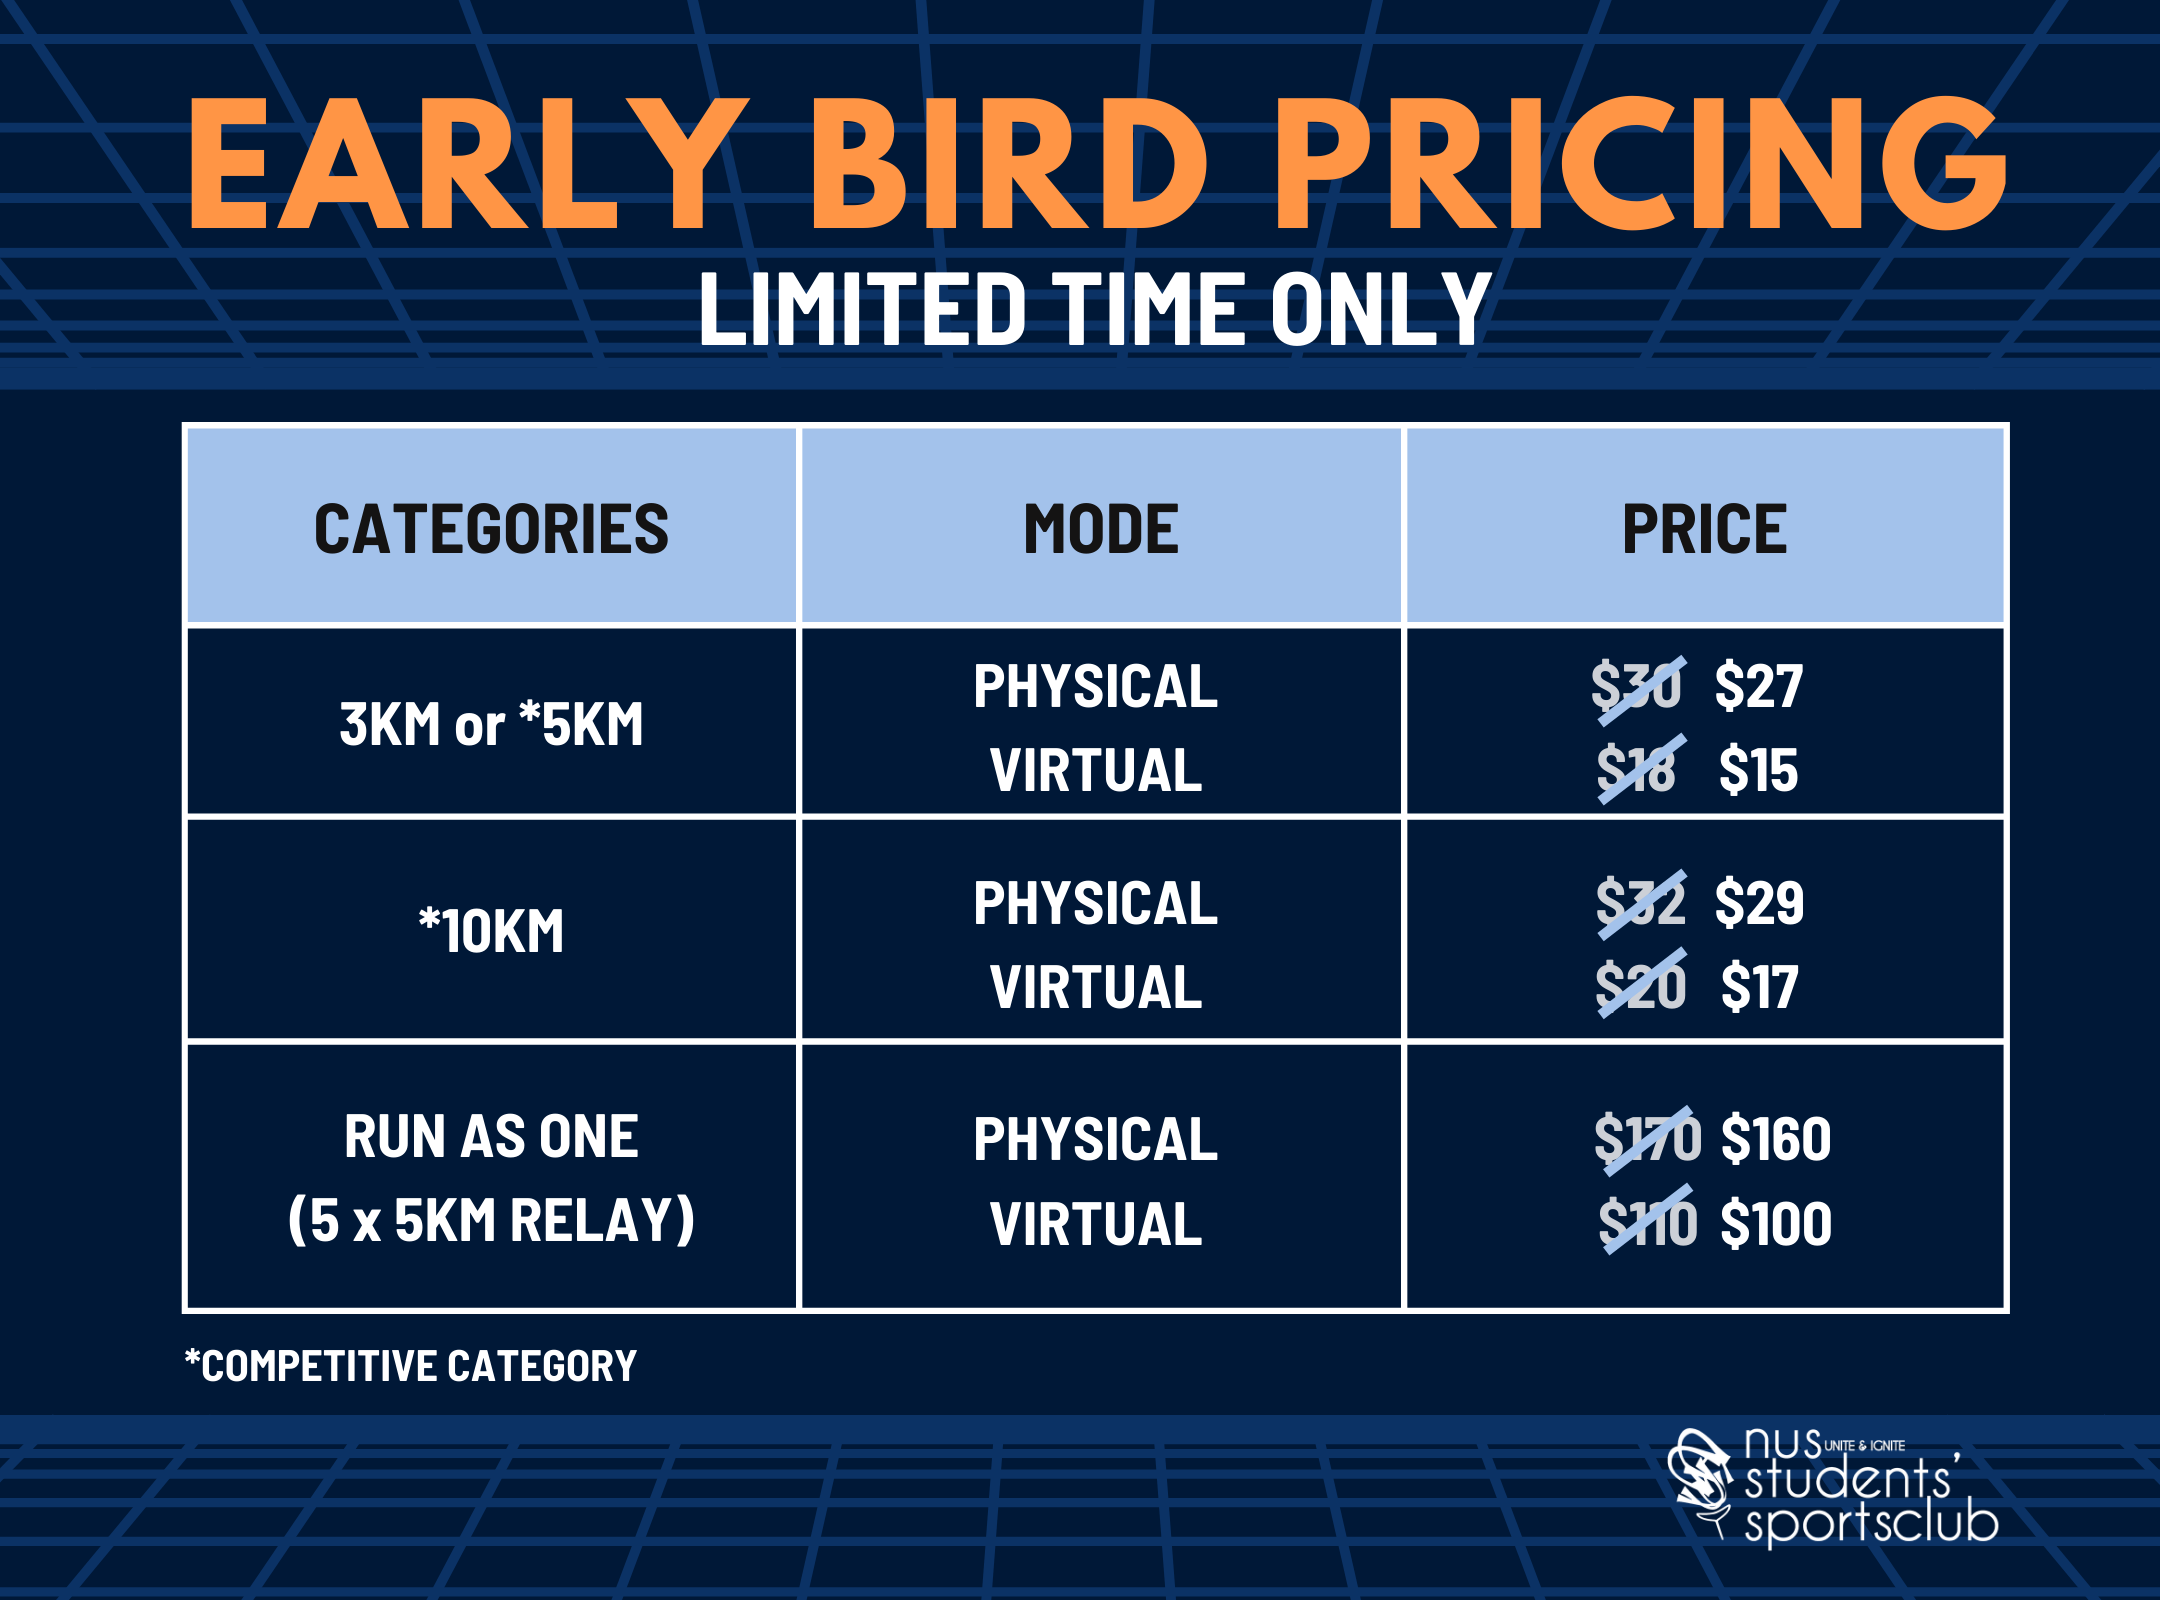
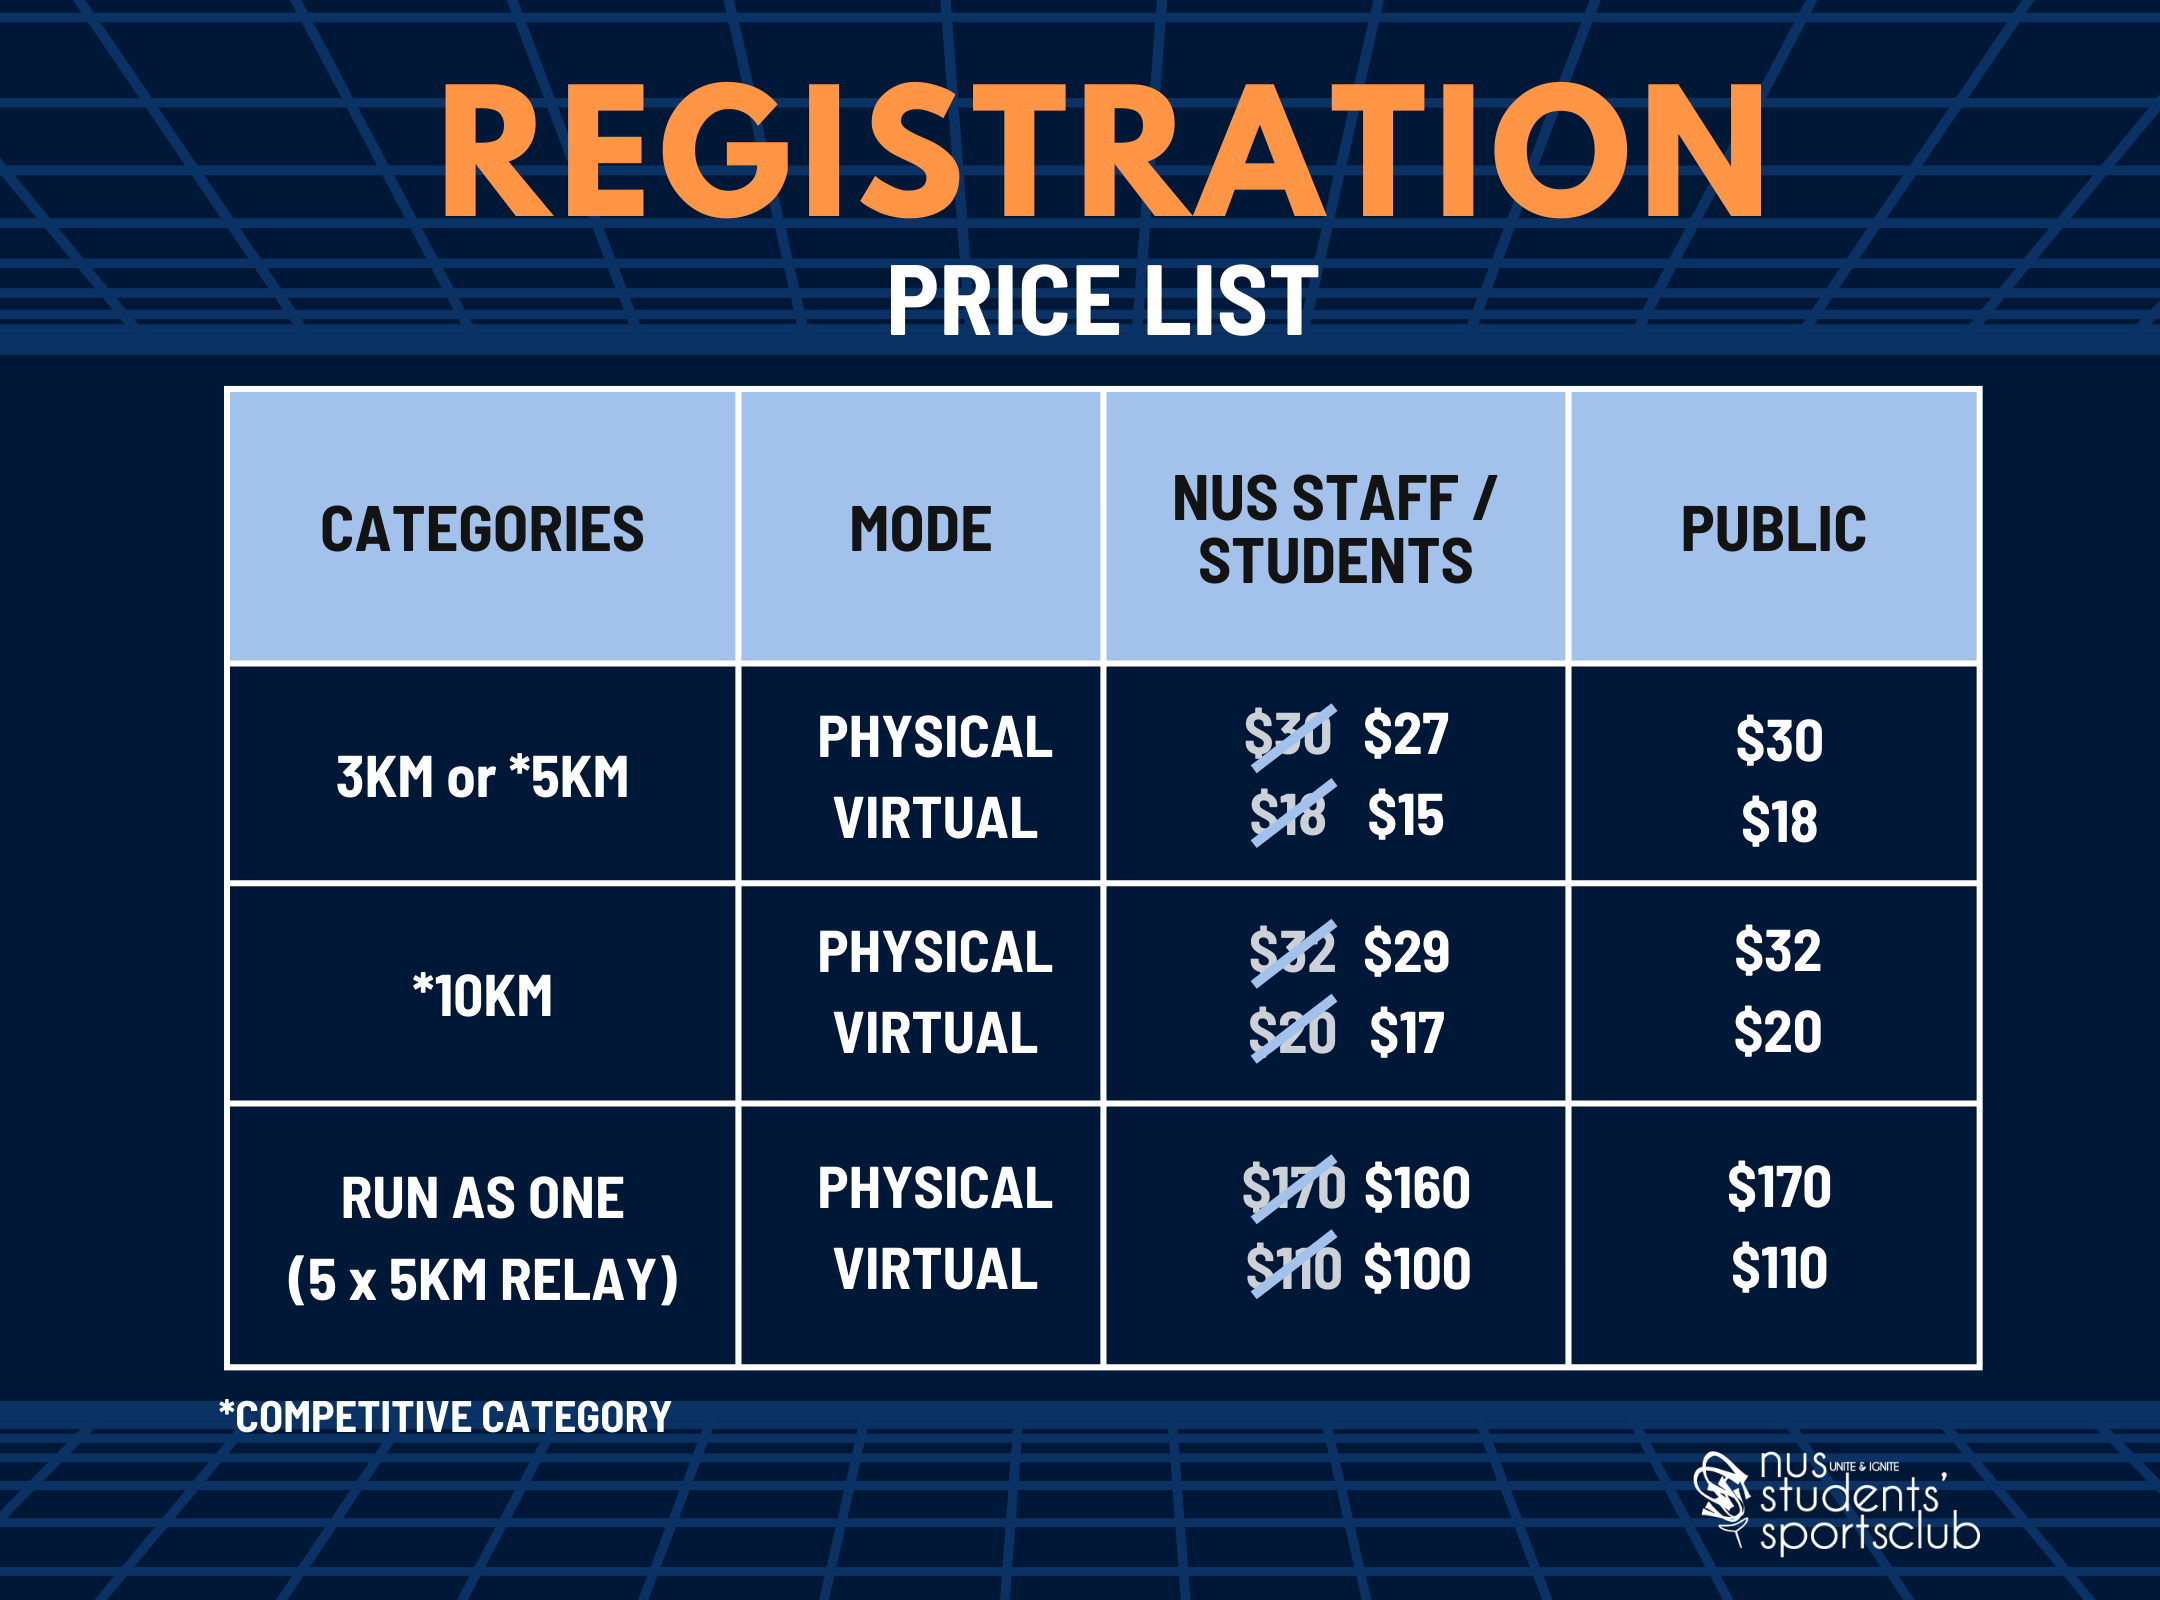
no more early bird

diff --git a/index.html b/index.html
@@ -121,8 +121,8 @@
                                 style="font-weight: bold; color: white; text-decoration: none;">SIGN UP NOW</a>
                             <!-- <a class="btn btn-primary btn-light btn-lg px-4" href="#features">Learn More</a> -->
                         </div>
-                        <h3 class="display-8 fw-bolder text-white my-2 text-center"
-                            style="padding-bottom: 25px; font-family: sans-serif Helvetica;font-size: large;">EARLY BIRD IS OPEN! </h3>
+                        <!-- <h3 class="display-8 fw-bolder text-white my-2 text-center"
+                            style="padding-bottom: 25px; font-family: sans-serif Helvetica;font-size: large;">EARLY BIRD IS OPEN! </h3> -->
                     </div>
                 </div>
             </div>
